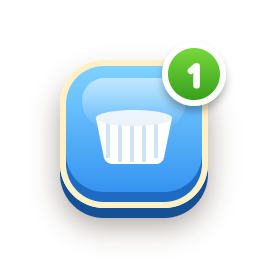
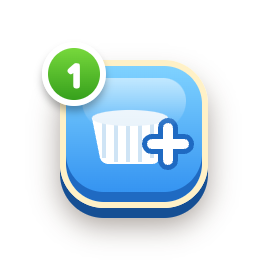
Drop button labels, add a plus to Spare, soften shadows and jelly rims
- The bottom buttons lose their labels and sit a little lower; the boost
  count badge moves to the top left, and the Spare cup gets a small plus.
- Sprite shadows are lighter and warm brown, and the belt's table shadow
  is lighter, so stacked sprite shadows read like the single 3D mockup.
- Jelly is tinted with the body shading as rendered instead of squared,
  which matches a full-color render and removes the dark rims.

Claude-Session: https://claude.ai/code/session_016FES2as2rxmmayKmhRET6j

Changed region(s): [[0.1493, 0.1791, 0.8657, 0.6567], [0.5373, 0.3881, 0.5672, 0.4179], [0.4179, 0.3881, 0.4478, 0.4179]]

diff --git a/tools/art/ui.html b/tools/art/ui.html
@@ -36,7 +36,7 @@
   .green { background: linear-gradient(#8ee04a, #3fae22); box-shadow: inset 0 -5px 0 #2f8a17, 0 5px 0 #23660f, 0 9px 14px rgba(40,20,6,.4); border: 3px solid #f9d36a; }
   .orange { background: linear-gradient(#ffc04a, #ff8a1f); box-shadow: inset 0 -5px 0 #d8650a, 0 5px 0 #a74b06, 0 9px 14px rgba(40,20,6,.4); border: 3px solid #fff1c7; }
   .blue { background: linear-gradient(#7fd2ff, #2f8ff0); box-shadow: inset 0 -5px 0 #1f6ac2, 0 5px 0 #154f94, 0 9px 14px rgba(40,20,6,.4); border: 3px solid #fff1c7; }
-  .badge { position: absolute; right: -12px; top: -12px; width: 32px; height: 32px; box-sizing: border-box; border-radius: 50%; background: linear-gradient(#77d83c, #36a01c); border: 3px solid #fff; box-shadow: 0 3px 4px rgba(0,0,0,.3); color: #fff; font-weight: 700; font-size: 18px; display: flex; align-items: center; justify-content: center; }
+  .badge { position: absolute; left: -12px; top: -12px; width: 32px; height: 32px; box-sizing: border-box; border-radius: 50%; background: linear-gradient(#77d83c, #36a01c); border: 3px solid #fff; box-shadow: 0 3px 4px rgba(0,0,0,.3); color: #fff; font-weight: 700; font-size: 18px; display: flex; align-items: center; justify-content: center; }
 </style>
 </head>
 <body>
@@ -94,7 +94,8 @@
 <div class="piece pad" id="pane_body"><div class="pane body"></div></div>
 <div class="piece pad" id="pane_gloss"><div class="pane gloss"></div></div>
 <div class="piece pad" id="btn_spare"><div class="btn blue">
-  <svg width="46" height="36" viewBox="0 0 46 36"><path d="M4 10 h38 l-4 20 a4 4 0 0 1 -4 3 h-22 a4 4 0 0 1 -4 -3z" fill="#fff"/><path d="M10 10 v20 M16 10 v22 M22 10 v22 M28 10 v22 M34 10 v20" stroke="#cfe4f5" stroke-width="2"/><ellipse cx="23" cy="10" rx="19" ry="4" fill="#e9f3fb"/></svg>
+  <svg width="56" height="42" viewBox="0 0 56 42" style="margin-left: 6px"><g transform="translate(0 3)"><path d="M4 10 h38 l-4 20 a4 4 0 0 1 -4 3 h-22 a4 4 0 0 1 -4 -3z" fill="#fff"/><path d="M10 10 v20 M16 10 v22 M22 10 v22 M28 10 v22 M34 10 v20" stroke="#cfe4f5" stroke-width="2"/><ellipse cx="23" cy="10" rx="19" ry="4" fill="#e9f3fb"/></g>
+    <path d="M42 18 v16 M34 26 h16" stroke="#1f6ac2" stroke-width="10" stroke-linecap="round"/><path d="M42 18 v16 M34 26 h16" stroke="#fff" stroke-width="5" stroke-linecap="round"/></svg>
   <div class="badge">1</div></div></div>
 <div class="piece pad" id="btn_undo"><div class="btn green">
   <svg width="40" height="40" viewBox="0 0 24 24" fill="none" stroke="#fff" stroke-width="3.4" stroke-linecap="round" stroke-linejoin="round" style="filter: drop-shadow(0 2px 0 #23660f)"><path d="M9 5 4 10l5 5"/><path d="M4 10h10a6 6 0 0 1 0 12h-3"/></svg></div></div>

diff --git a/tools/art/sprites.js b/tools/art/sprites.js
@@ -31,7 +31,7 @@ const gummy = (hex, o = {}) => new THREE.MeshPhysicalMaterial({
   color: hex, roughness: 0.25, clearcoat: 0.7, clearcoatRoughness: 0.08, emissive: hex, emissiveIntensity: 0.1, ...o,
 });
 
-function baseScene(shadowExtent = 6) {
+function baseScene(shadowExtent = 6, shadowOpacity = 0.15) {
   const scene = new THREE.Scene();
   scene.environment = envTex;
   scene.environmentIntensity = 0.4;
@@ -43,8 +43,9 @@ function baseScene(shadowExtent = 6) {
   Object.assign(key.shadow.camera, { left: -shadowExtent, right: shadowExtent, top: shadowExtent, bottom: -shadowExtent, near: 1, far: 60 });
   key.shadow.radius = 9; key.shadow.blurSamples = 16; key.shadow.bias = -0.0005;
   scene.add(key);
-  // invisible ground that only shows the soft shadow
-  const ground = new THREE.Mesh(new THREE.PlaneGeometry(40, 40), new THREE.ShadowMaterial({ opacity: 0.28 }));
+  // invisible ground that only shows the soft, warm shadow (kept light: the
+  // game stacks sprite shadows, which a single 3D scene would not)
+  const ground = new THREE.Mesh(new THREE.PlaneGeometry(40, 40), new THREE.ShadowMaterial({ color: '#4a2508', opacity: shadowOpacity }));
   ground.rotation.x = -Math.PI / 2; ground.receiveShadow = true;
   scene.add(ground);
   return scene;
@@ -74,7 +75,7 @@ function shoot(scene, wpx, hpx) {
 function layers(build, wpx, hpx, extent) {
   const out = {};
   for (const pass of ['shadow', 'body', 'gloss']) {
-    const sc = baseScene(extent);
+    const sc = baseScene(extent, 0.12);
     const ground = sc.children.find(o => o.material && o.material.isShadowMaterial);
     let m;
     if (pass === 'shadow') m = new THREE.MeshBasicMaterial({ colorWrite: false, depthWrite: false });
@@ -106,7 +107,7 @@ export function slab(vertical) {
 export function cubeColor(hex) {
   const sc = baseScene(2);
   add(sc, new RoundedBoxGeometry(u(CUBE), u(CUBE) * 0.87, u(CUBE), 5, u(CUBE) * 0.22), gummy(hex), 0, u(CUBE) * 0.435, 0);
-  return shoot(sc, 104, 104);
+  return shoot(sc, 140, 140);
 }
 
 // Mint silicone tray. facing is the side of the open end: right, left, up, down.
